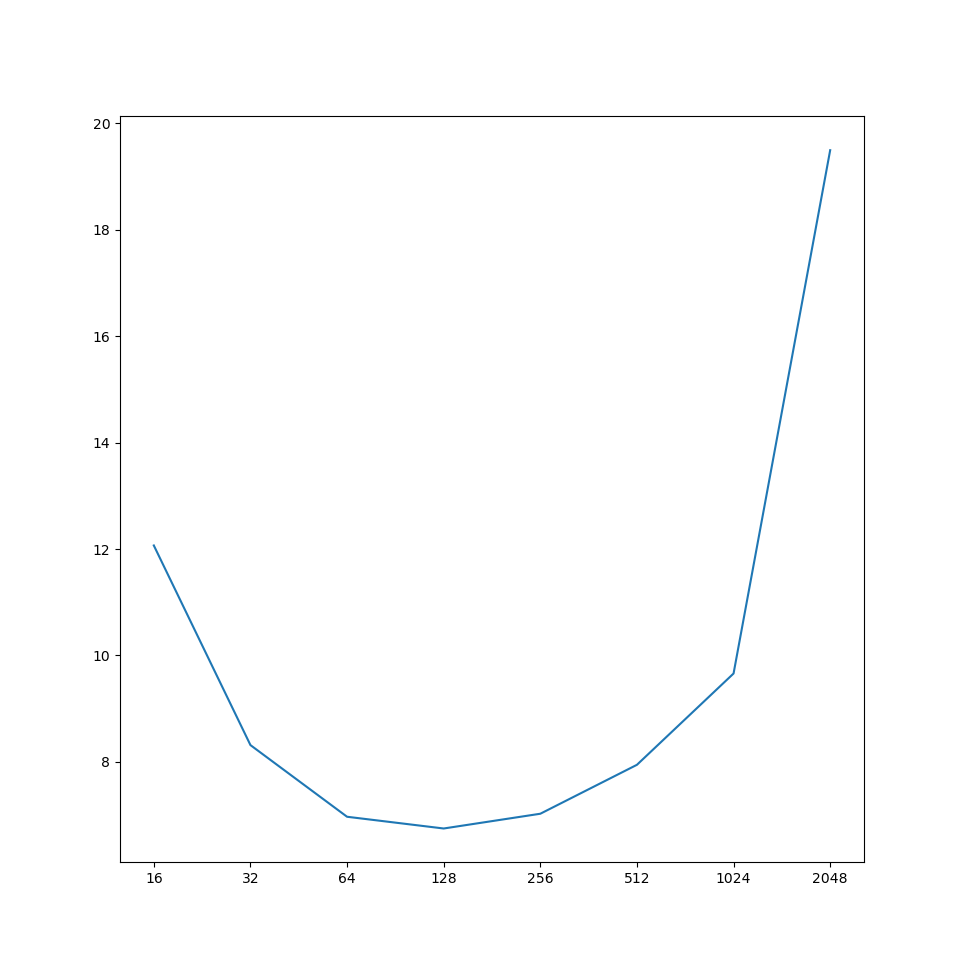
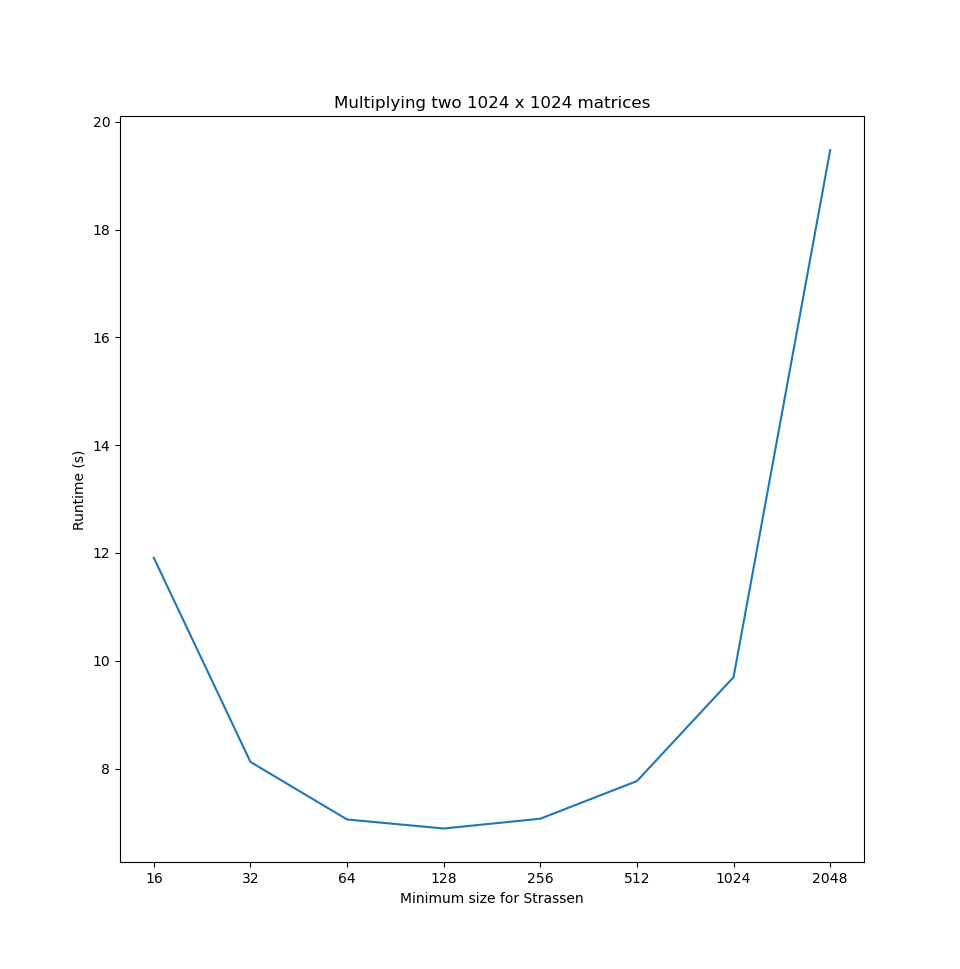
Prettier pictures

diff --git a/initial_materials/test_matrix.py b/initial_materials/test_matrix.py
@@ -243,6 +243,9 @@ def testRandomMatrices():
     
     print()
     pyplot.plot(dataX, dataY)
+    pyplot.xlabel("Minimum size for Strassen")
+    pyplot.ylabel("Runtime (s)")
+    pyplot.title(f"Multiplying two {rows} x {cols} matrices")
     pyplot.show()
 
 # Change return type of the C multiply function!
